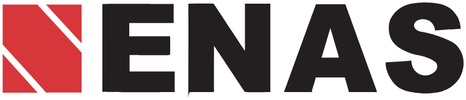
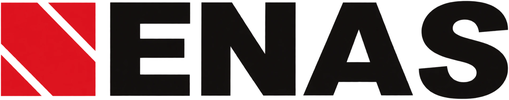
Sumar Pinuccio Trattoria y reemplazar ENAS
- Pinuccio Trattoria entra como cuarto sponsor, desde el PDF vectorial.
- ENAS se reemplaza por la versión nueva, aplanada sobre blanco: el archivo
  venía con transparencia y al convertirlo a RGB sin componer quedaba como un
  rectángulo negro con las letras caladas.
- Se corrige el modo de fusión: el contenedor .marcas tenía opacity, que aísla
  el grupo y anulaba el multiply de los hijos, así que los logos aparecían con
  su recuadro blanco sobre el papel. La opacidad pasa a cada imagen.
- Los cuatro entran en una sola línea; el bloque en dos filas desbordaba la
  hoja del índice.

Claude-Session: https://claude.ai/code/session_016RdKxc9NMecg14L2oBtH98

diff --git a/assets/css/main.css b/assets/css/main.css
@@ -486,20 +486,22 @@ p { margin: 0 0 1.05em; max-width: 66ch; }
    través y quedan impresas en la hoja, no pegadas encima. */
 .marcas {
   display: flex; align-items: center; justify-content: center;
-  gap: clamp(16px, 3.8vw, 30px);
-  margin-top: clamp(18px, 3.4vw, 26px);
-  padding-top: clamp(14px, 2.6vw, 20px);
+  gap: clamp(11px, 2.4vw, 18px);
+  margin-top: clamp(14px, 2.6vw, 20px);
+  padding-top: clamp(12px, 2.2vw, 17px);
   border-top: 1px dotted var(--sepia-suave);
-  opacity: .88;
 }
 .marcas img {
   mix-blend-mode: multiply;
   width: auto;
+  opacity: .9;
   filter: saturate(.9);
 }
-.marcas img:nth-child(1) { height: clamp(34px, 7vw, 47px); }
-.marcas img:nth-child(2) { height: clamp(17px, 3.4vw, 23px); }
-.marcas img:nth-child(3) { height: clamp(15px, 3vw, 20px); }
+/* La AUF manda por ser la afiliación; los sponsors, parejos entre sí. */
+.marcas img:nth-child(1) { height: clamp(27px, 5.4vw, 36px); }
+.marcas img:nth-child(2) { height: clamp(13px, 2.5vw, 17px); }
+.marcas img:nth-child(3) { height: clamp(10px, 2.1vw, 14px); }
+.marcas img:nth-child(4) { height: clamp(15px, 3vw, 20px); }
 .indice-pie a:hover { color: var(--azul); }
 
 .hoja-indice h1 {

diff --git a/index.html b/index.html
@@ -90,7 +90,8 @@
       <div class="marcas">
         <img src="assets/img/marcas/auf.png" alt="Asociación Uruguaya de Fútbol" width="111" height="180" loading="lazy">
         <img src="assets/img/marcas/mgr.png" alt="MGR Sport" width="342" height="110" loading="lazy">
-        <img src="assets/img/marcas/enas.png" alt="ENAS" width="466" height="100" loading="lazy">
+        <img src="assets/img/marcas/enas.png" alt="ENAS" width="509" height="100" loading="lazy">
+        <img src="assets/img/marcas/pinuccio.png" alt="Pinuccio Trattoria" width="279" height="130" loading="lazy">
       </div>
     </div>
 

diff --git a/build.py b/build.py
@@ -204,7 +204,8 @@ def pagina_portada():
       <div class="marcas">
         <img src="assets/img/marcas/auf.png" alt="Asociación Uruguaya de Fútbol" width="111" height="180" loading="lazy">
         <img src="assets/img/marcas/mgr.png" alt="MGR Sport" width="342" height="110" loading="lazy">
-        <img src="assets/img/marcas/enas.png" alt="ENAS" width="466" height="100" loading="lazy">
+        <img src="assets/img/marcas/enas.png" alt="ENAS" width="509" height="100" loading="lazy">
+        <img src="assets/img/marcas/pinuccio.png" alt="Pinuccio Trattoria" width="279" height="130" loading="lazy">
       </div>
     </div>
 

diff --git a/README.md b/README.md
@@ -123,8 +123,16 @@ Los logos del pie del índice (`assets/img/marcas/`) van **sobre fondo blanco a
 propósito**, no recortados: se aplican con `mix-blend-mode: multiply`, así el
 blanco desaparece y el papel se ve a través. Quedan impresos en la hoja en vez
 de pegados encima, y el escudo de la AUF conserva sus blancos internos, que un
-recorte por transparencia le comería. Si se reemplaza alguno, dejarlo sobre
-blanco.
+recorte por transparencia le comería.
+
+Dos cosas que rompen esto y no son obvias:
+
+- **Nunca poner `opacity` en `.marcas`.** El contenedor con opacidad aísla el
+  grupo y anula el `mix-blend-mode` de los hijos: los logos vuelven a aparecer
+  con su recuadro blanco. La opacidad va en cada `img`.
+- **Un logo con transparencia hay que aplanarlo sobre blanco**, no convertirlo
+  y listo: al pasar de RGBA a RGB sin componer, el fondo transparente se vuelve
+  negro y el logo termina como un rectángulo oscuro.
 
 ## Las texturas
 
